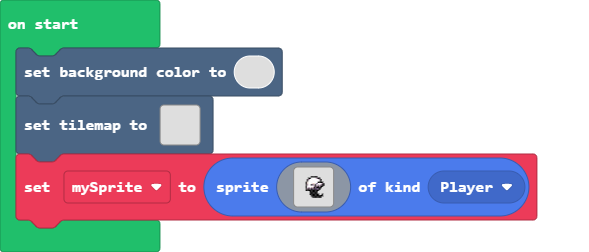
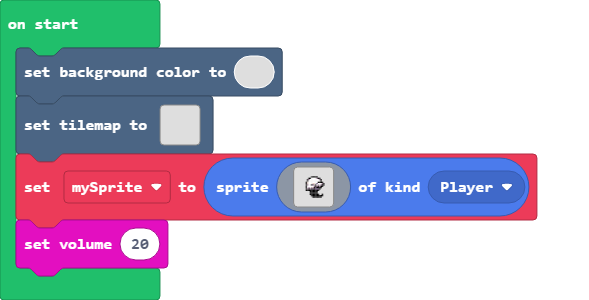
Update main.blocks, main.ts

diff --git a/main.ts b/main.ts
@@ -26,3 +26,4 @@ let mySprite = sprites.create(img`
     ........................
     ........................
     `, SpriteKind.Player)
+music.setVolume(20)
